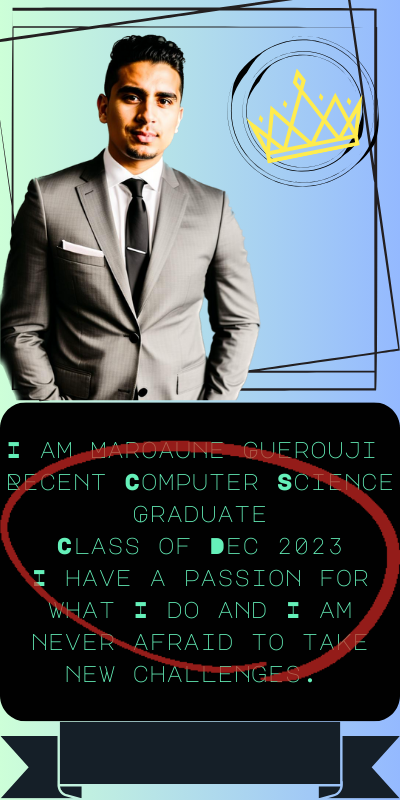
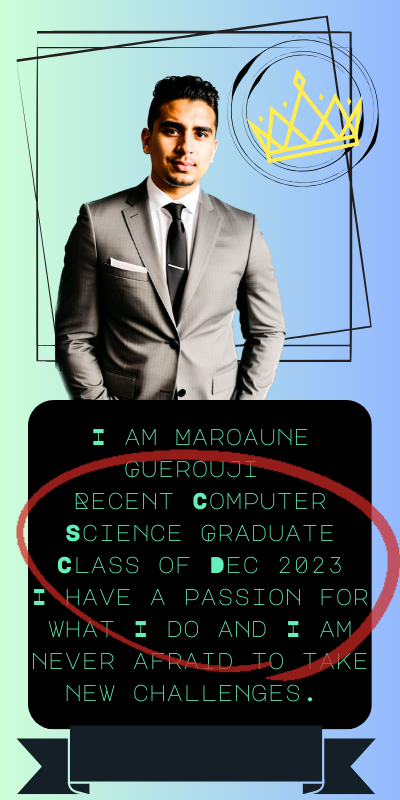
add new projects and update profile image to accomidate mobile screen.

diff --git a/style.css b/style.css
@@ -186,7 +186,7 @@ h5 {
     font-size: 5pt;
   }
   .smallPicMobil{
-    display: block;
+    display: flex;
   }
   .image1{
     display: none;
